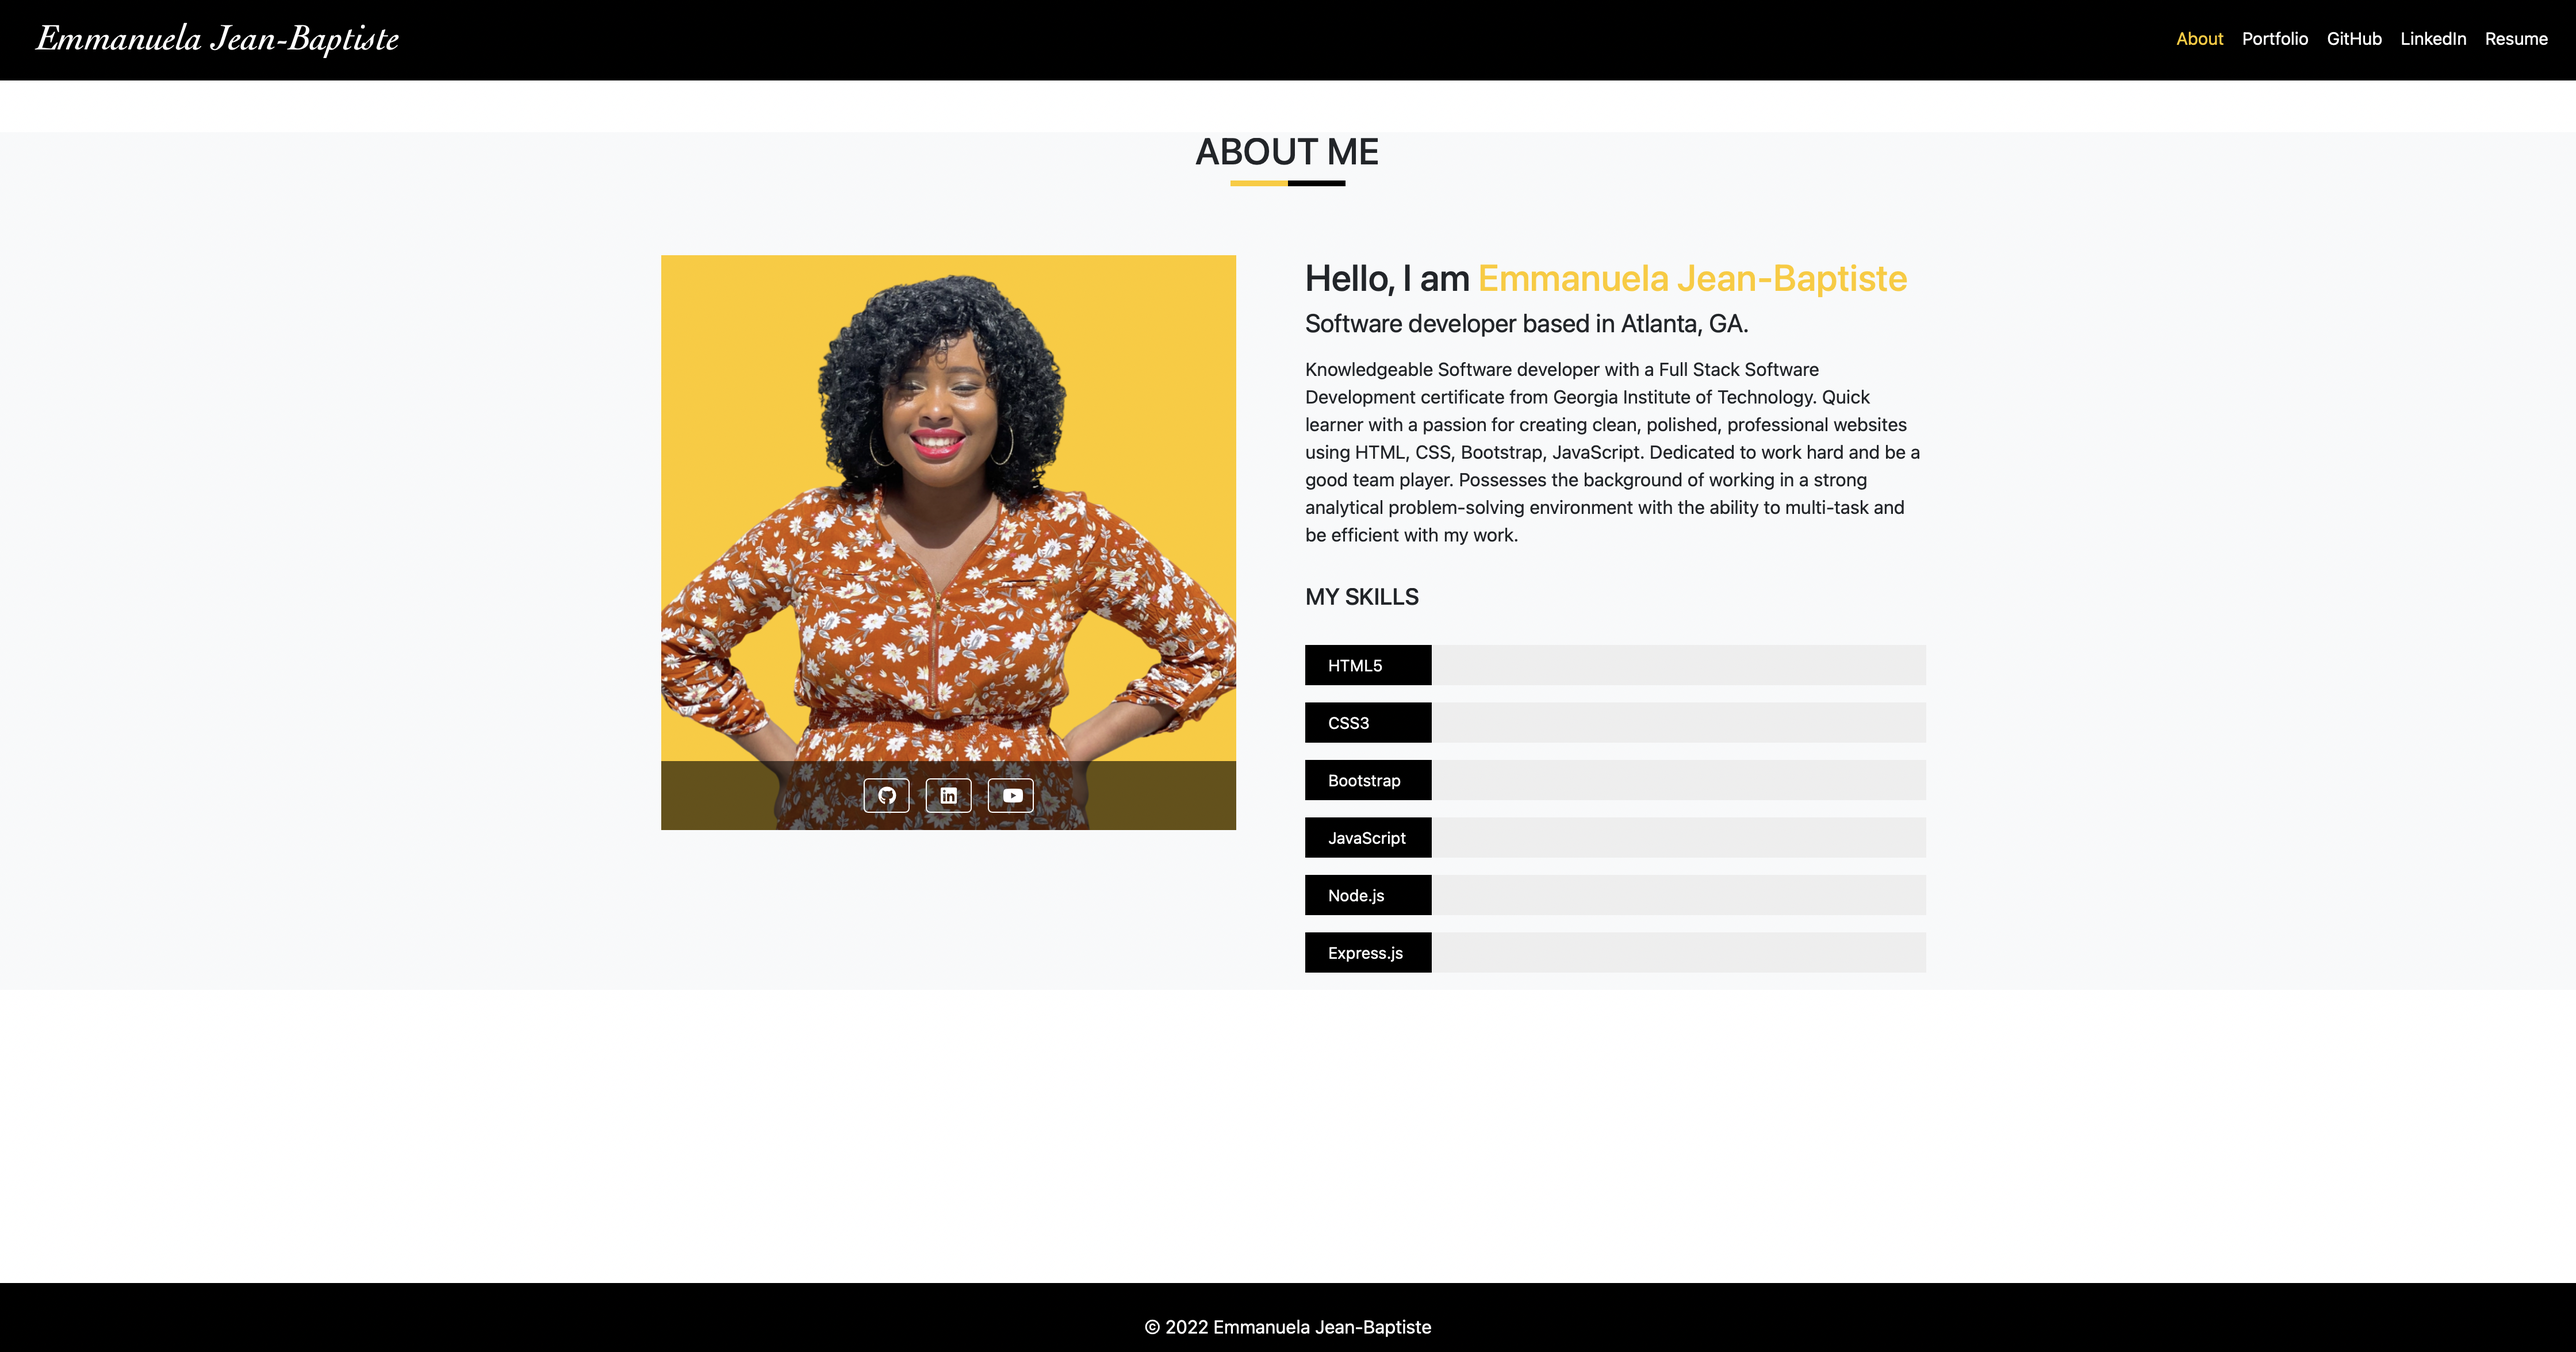
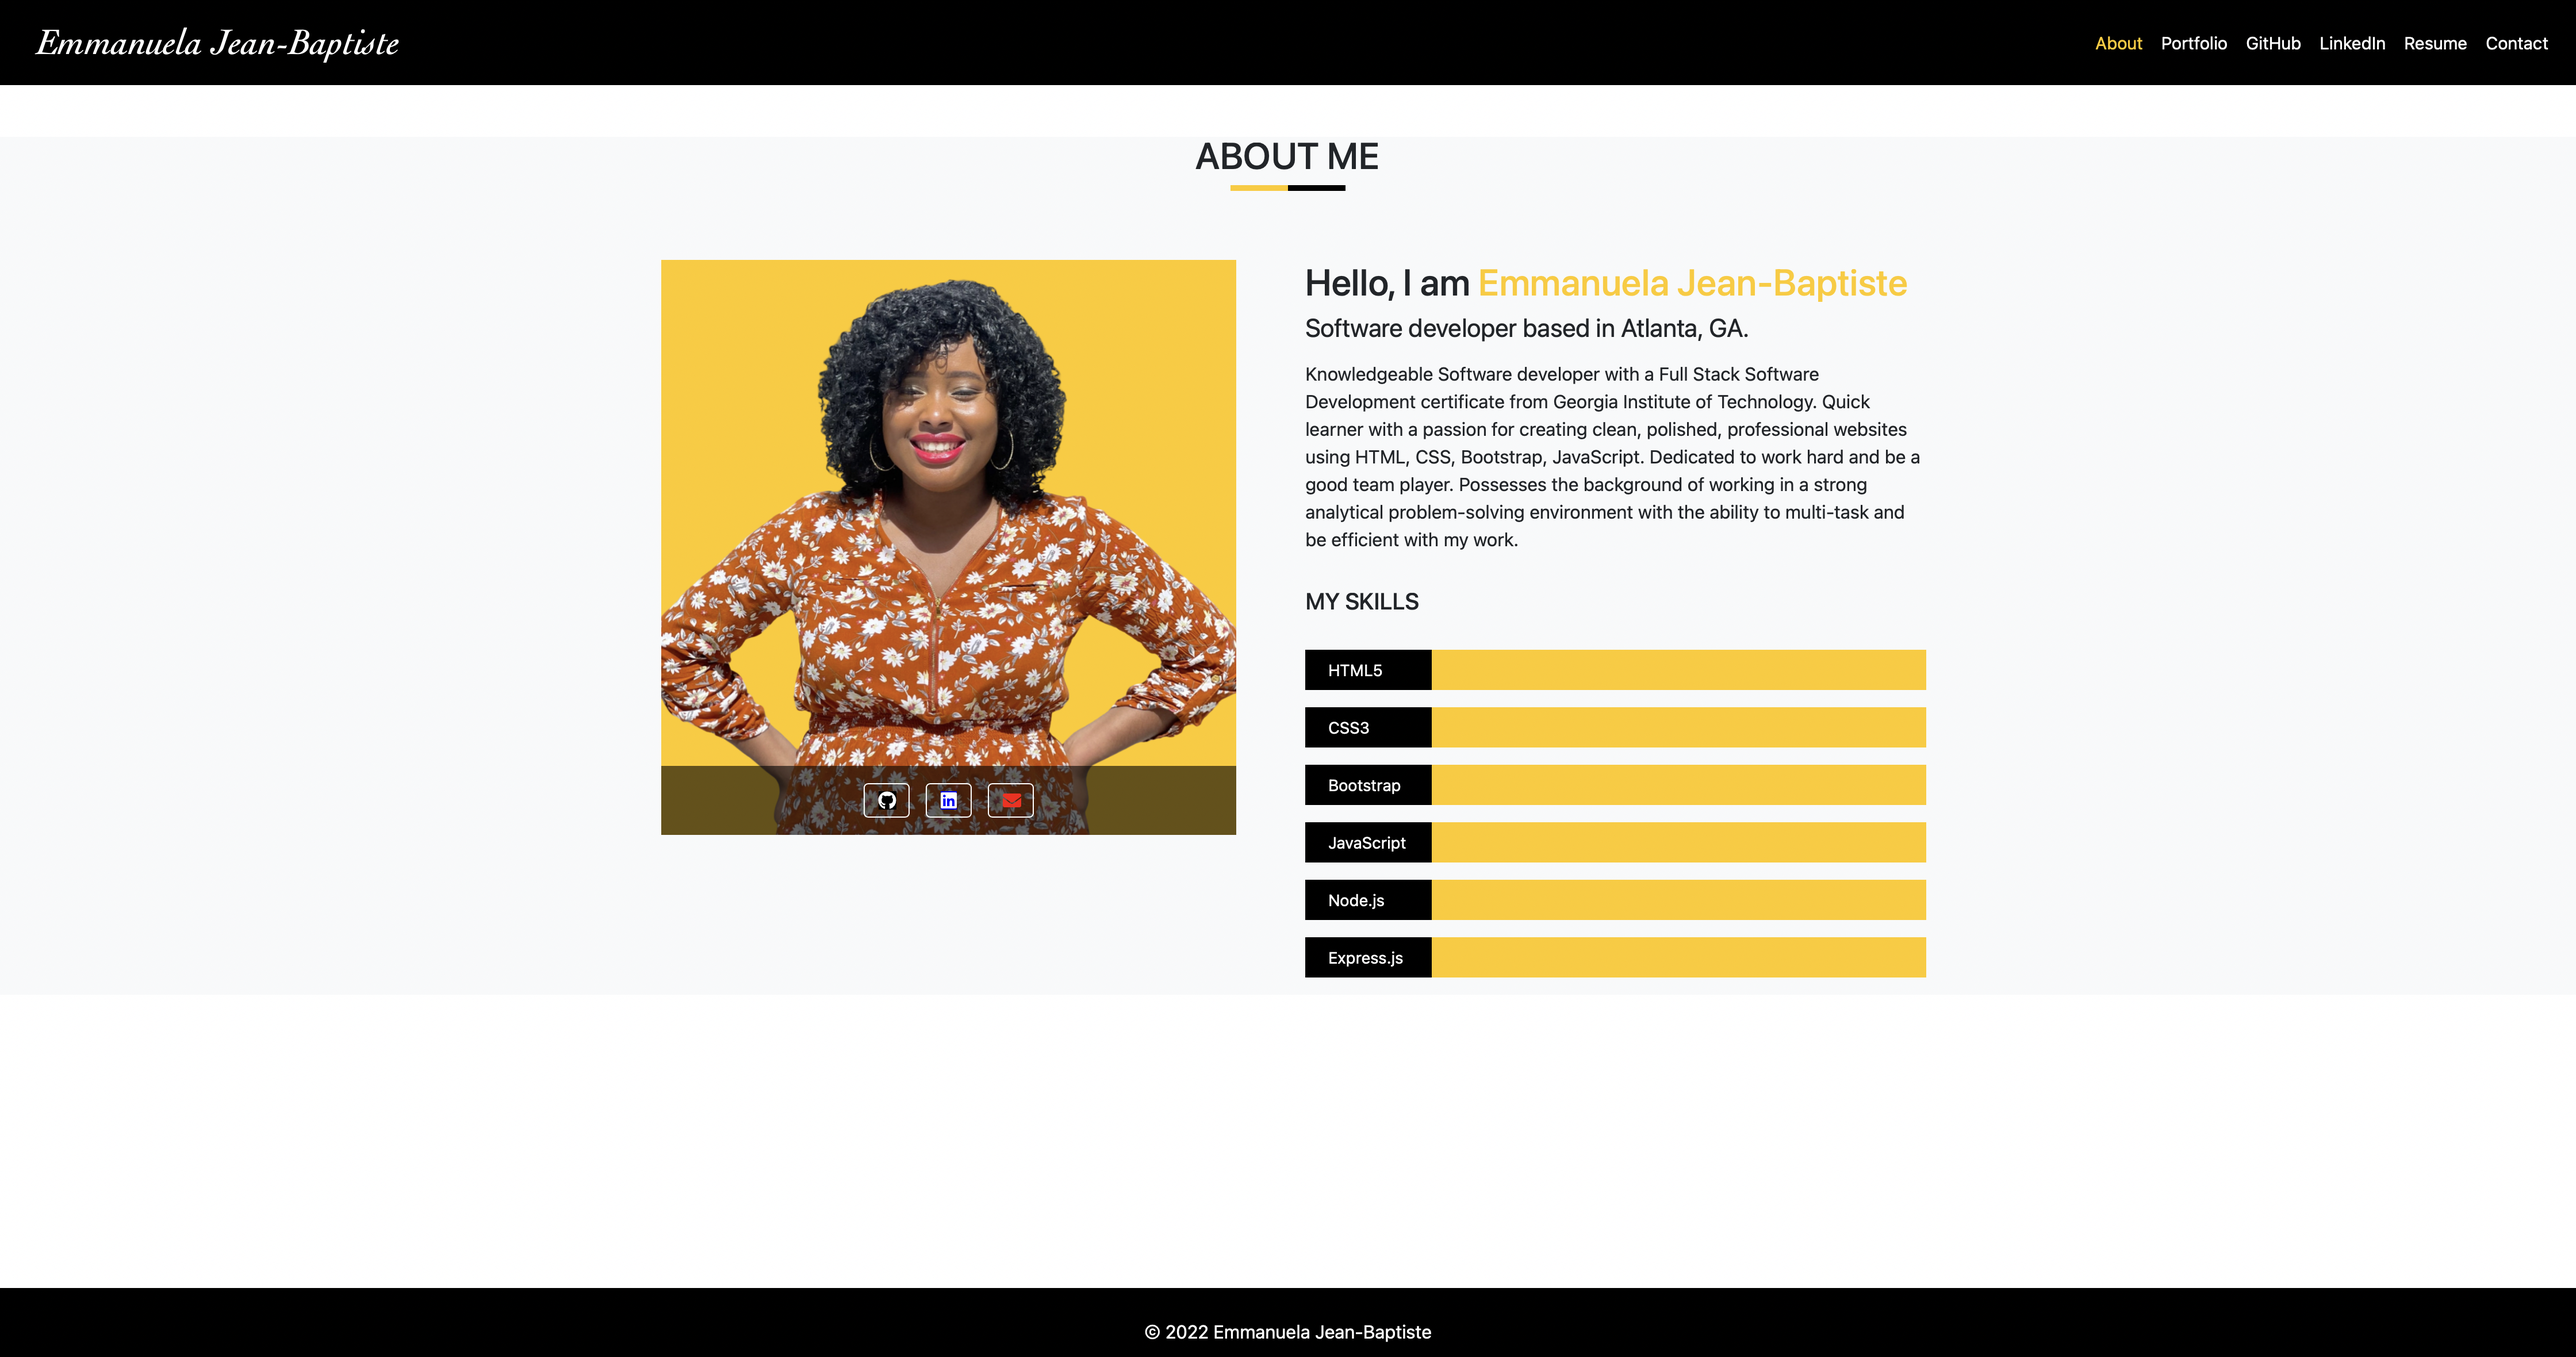
added contact page

diff --git a/contact.html b/contact.html
@@ -60,51 +60,43 @@
      class="collapse navbar-collapse justify-content-end"
      id="navbarNavAltMarkup"
    >
-     <div class="navbar-nav">
-       <a class="nav-item nav-link" href="index.html">About</a>
-       <a class="nav-item nav-link active" href="portfolio.html">Portfolio</a>
-       <a class="nav-item nav-link" href="https://github.com/emma4jesus">GitHub</a>
-       <a class="nav-item nav-link" href="https://www.linkedin.com/in/emmanuela-jean-baptiste-8442501a2">LinkedIn</a>
-       <a class="nav-item nav-link" href="https://github.com/emma4jesus/myportfolio/blob/main/Emmanuela's%20Resume..pdf">Resume</a>
-       <a class="nav-item nav-link" href="contact.html">Contact</a>
-     </div>
-   </div>
+   <div class="navbar-nav">
+    <a class="nav-item nav-link " href="index.html">About</a>
+    <a class="nav-item nav-link" href="portfolio.html">Portfolio</a>
+    <a class="nav-item nav-link" href="https://github.com/emma4jesus">GitHub</a>
+    <a class="nav-item nav-link" href="https://www.linkedin.com/in/emmanuela-jean-baptiste-8442501a2">LinkedIn</a>
+    <a class="nav-item nav-link" href="https://github.com/emma4jesus/myportfolio/blob/main/Emmanuela's%20Resume..pdf">Resume</a>
+    <a class="nav-item nav-link active" href="contact.html">Contact</a>
+  </div>
  </nav>
 </header>
-    <!--my work text --> 
-   
-    <section>
-   <div class="container text-center pb-5">
-    <h1>Portfolio</h1>
-    <div class="container-grid d-flex justify-content-center">
-        <div class="card port-cards" style="width: 50rem;">
-            <img class="card-img-top" src="./assets/images/theshelf.png" alt="Code-Quiz-App">
-           
-            <div class="card-body">
-              <p class="card-text"><a href="https://pure-cliffs-09110.herokuapp.com/">  Full stack community application to bring neighbors together by allowing them to track movies that they want to share and swap amongst themselves. </a></p>
-            </div>
+   <div id="main-container" class="container">
+    <section class="main-section">
+              <h1>Contact</h1>
+              <div class="sub-container">
+              <a href="https://github.com/emma4jesus" target="_blank"><img src="./assets/images/githublogo.jpg" style=" height: 175px; width: 175px;"></a> &ensp;
+              <a href="mailto:emmanuelajeanbaptiste1@gmail.com" target="_blank"><img src="./assets/images/gmail.png" style=" height: 175px; width: 175px;"></a> &ensp;
+              <a href="https://www.linkedin.com/in/emmanuela-jean-baptiste-8442501a2" target="_blank"><img src="/assets/images/linkedinlogo.jpg" style=" height: 175px; width: 175px;"></a>
+        
+         
+              </div>
+        
+            </section>
+        
           </div>
+        
+         
 
-      <div class="card port-cards" style="width: 50rem;">
-        <img class="card-img-top" src="./assets/images/weather.dashboard.png" alt="Weather Dashboard">
-        <div class="card-body">
-          <p class="card-text"><a href="https://emma4jesus.github.io/Weather-Dashboard/">A Weather Dashboard. Where you can look up weather conditions in every city in the world.</a></p>
-        </div>
+    
+
+    <footer class="footer-area">
+      <div class="footer-copyright text-center py-3">© 2022 Emmanuela Jean-Baptiste</div>
       </div>
+    </footer>
+   
+    <!-- ====== // Portfolio Section ====== -->
 
-      <div class="card port-cards" style="width: 50rem;">
-        <img class="card-img-top" src="./assets/images/scheduler.png" alt="Work-Day Scheduler">
-        <div class="card-body">
-          <p class="card-text"><a href="https://emma4jesus.github.io/WorkDay-Scheduler/">A Javascript app that you can use to schedule tasks throughout your workday.</a></p>
-        </div>
-       </div>
-       
-      </section>
-
-
-<footer class="footer-area">
-  <div class="footer-copyright text-center py-3">© 2022 Emmanuela Jean-Baptiste</div>
-  </div>
-</footer>
-</body>
+    <script src="/js/jquery-3.3.1.min.js"></script>
+    <script src="/js/skill.bar.js"></script>
+  </body>
 </html>

diff --git a/index.html b/index.html
@@ -60,13 +60,14 @@
      class="collapse navbar-collapse justify-content-end"
      id="navbarNavAltMarkup"
    >
-     <div class="navbar-nav">
-       <a class="nav-item nav-link active" href="index.html">About</a>
-       <a class="nav-item nav-link" href="portfolio.html">Portfolio</a>
-       <a class="nav-item nav-link" href="https://github.com/emma4jesus">GitHub</a>
-       <a class="nav-item nav-link" href="https://www.linkedin.com/in/emmanuela-jean-baptiste-8442501a2">LinkedIn</a>
-       <a class="nav-item nav-link" href="https://github.com/emma4jesus/myportfolio/blob/main/Emmanuela_resume.pdf">Resume</a>
-     </div>
+   <div class="navbar-nav">
+    <a class="nav-item nav-link active" href="index.html">About</a>
+    <a class="nav-item nav-link" href="portfolio.html">Portfolio</a>
+    <a class="nav-item nav-link" href="https://github.com/emma4jesus">GitHub</a>
+    <a class="nav-item nav-link" href="https://www.linkedin.com/in/emmanuela-jean-baptiste-8442501a2">LinkedIn</a>
+    <a class="nav-item nav-link" href="https://github.com/emma4jesus/myportfolio/blob/main/Emmanuela's%20Resume..pdf">Resume</a>
+    <a class="nav-item nav-link" href="contact.html">Contact</a>
+  </div>
    </div>
  </nav>
 </header>
@@ -92,10 +93,12 @@
            
               <!-- Social Link -->
               <div class="social-aria">
-                <a class="btn btn-square" href="https://github.com/emma4jesus"><i class="fab fa-github"></i></a>
-                <a class="btn btn-square" href="https://www.linkedin.com/in/emmanuela-jean-baptiste-8442501a2"><i class="fab fa-linkedin"></i></a>
-                <a class="btn btn-square" href="https://www.youtube.com/channel/UCka_YKEermWcmBm8w9-4pkw"><i class="fab fa-youtube"></i></a>
+                <a class="btn btn-square" href="https://github.com/emma4jesus"><i  style="  background-color: black;" class="fab fa-github"></i></a>
+                <a class="btn btn-square" href="https://www.linkedin.com/in/emmanuela-jean-baptiste-8442501a2"><i style="color:white; background-color: blue;"class="fab fa-linkedin"></i></a>
+                <a class="btn btn-square" href="mailto:emmanuelajeanbaptiste1@gmail.com"><i style=" color: red;" class="fas fa-envelope"></i></a> 
               </div>
+              
+              
               <!-- // Social Link -->
             </div>
       

diff --git a/assets/css/style.css b/assets/css/style.css
@@ -150,7 +150,7 @@ header {
   display: block;
   margin-bottom: 15px;
   width: 100%;
-  background: #eee;
+  background: #ffc900;
   height: 35px;
 }
 
